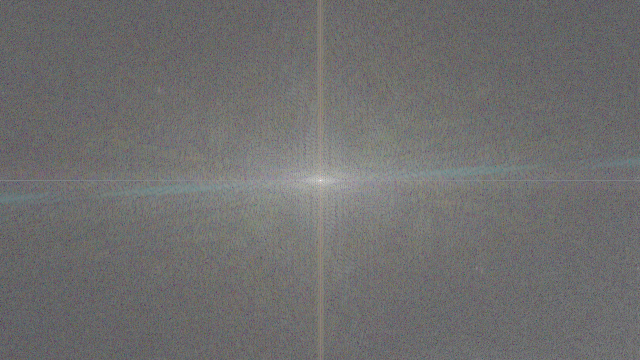
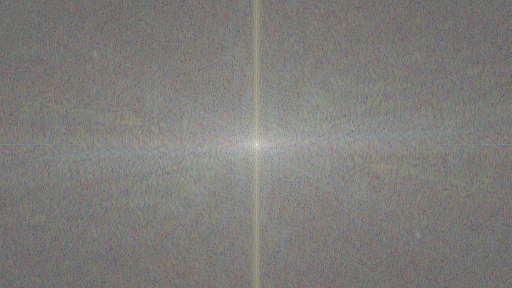
attempt 2

Changed region(s): [[0.0, 0.0, 1.0, 1.0], [0.9688, 0.6562, 1.0, 0.6875], [0.9375, 0.6875, 0.9688, 0.7188]]

diff --git a/src/processors/FourierProcessor.java b/src/processors/FourierProcessor.java
@@ -44,6 +44,16 @@ public class FourierProcessor {
                         .divide(factor);
                 sourceFFTB[i + width / 4 - width / scale / 2][j + height / 4 - height / scale / 2] = fftBScaled[i][j]
                         .divide(factor);
+
+                sourceFFTR[i + 3 * width / 4 - width / scale / 2][j + 3 * height / 4
+                        - height / scale / 2] = fftRScaled[i][j]
+                                .divide(factor).conjugate();
+                sourceFFTG[i + 3 * width / 4 - width / scale / 2][j + 3 * height / 4
+                        - height / scale / 2] = fftGScaled[i][j]
+                                .divide(factor).conjugate();
+                sourceFFTB[i + 3 * width / 4 - width / scale / 2][j + 3 * height / 4
+                        - height / scale / 2] = fftBScaled[i][j]
+                                .divide(factor).conjugate();
             }
         }
 
@@ -90,35 +100,9 @@ public class FourierProcessor {
                 Image.fftToImage(fftBScaled));
         FileReader.writeImage(Image.toBufferedImage(debug1), ImageType.Debug, "hiddenFFT.png");
 
-        // 5) Create full-size frequency arrays to hold the upsampled data.
-        // Initially set them all to zero. We'll put our scaled frequencies into their
-        // positions
-        // at multiples of 'scale'. Everything else remains zero.
-        Complex[][] recoveredFFTR = new Complex[width][height];
-        Complex[][] recoveredFFTG = new Complex[width][height];
-        Complex[][] recoveredFFTB = new Complex[width][height];
-
-        for (int i = 0; i < width; i++) {
-            for (int j = 0; j < height; j++) {
-                recoveredFFTR[i][j] = new Complex(0, 0);
-                recoveredFFTG[i][j] = new Complex(0, 0);
-                recoveredFFTB[i][j] = new Complex(0, 0);
-            }
-        }
-
-        // 6) Fill in the frequency coefficients at every 'scale'-th index.
-        for (int i = 0; i < width; i += scale) {
-            for (int j = 0; j < height; j += scale) {
-                recoveredFFTR[i][j] = fftRScaled[i / scale][j / scale];
-                recoveredFFTG[i][j] = fftGScaled[i / scale][j / scale];
-                recoveredFFTB[i][j] = fftBScaled[i / scale][j / scale];
-            }
-        }
-
-        // 7) Inverse FFT to get back the hidden image.
-        Image redNew = Image.complexToImage(applyIFFT(recoveredFFTR));
-        Image greenNew = Image.complexToImage(applyIFFT(recoveredFFTG));
-        Image blueNew = Image.complexToImage(applyIFFT(recoveredFFTB));
+        Image redNew = Image.complexToImage(applyIFFT(fftRScaled));
+        Image greenNew = Image.complexToImage(applyIFFT(fftGScaled));
+        Image blueNew = Image.complexToImage(applyIFFT(fftBScaled));
 
         return new Image(redNew, greenNew, blueNew);
     }

diff --git a/src/Main.java b/src/Main.java
@@ -6,11 +6,11 @@ import processors.FourierProcessor;
 public class Main {
     public static void main(String[] args) {
         Image encoded = FourierProcessor.encode(FileReader.readImage(ImageType.Store, "store.png"),
-                FileReader.readImage(ImageType.Encode, "encode.png"), 4, 2);
+                FileReader.readImage(ImageType.Encode, "encode.png"), 5, 4);
 
         FileReader.writeImage(Image.toBufferedImage(encoded), ImageType.Output, "encoded.png");
 
-        Image decoded = FourierProcessor.decode(encoded, 4, 2);
+        Image decoded = FourierProcessor.decode(encoded, 5, 4);
 
         FileReader.writeImage(Image.toBufferedImage(decoded), ImageType.Output, "decoded.png");
     }

diff --git a/src/filereader/Image.java b/src/filereader/Image.java
@@ -91,7 +91,7 @@ public class Image {
         int[][] newI = new int[image.length][image[0].length];
         for (int x = 0; x < image.length; x++) {
             for (int y = 0; y < image[0].length; y++) {
-                int c = (int) Math.round(Math.max(0, Math.min(255, image[x][y].real)));
+                int c = (int) Math.round(Math.max(0, Math.min(255, image[x][y].magnitude())));
                 newI[x][y] = c;
             }
         }

diff --git a/src/processors/Complex.java b/src/processors/Complex.java
@@ -20,4 +20,8 @@ public class Complex {
     public Complex times(double x) {
         return new Complex(real * x, imag * x);
     }
+
+    public Complex conjugate() {
+        return new Complex(real, -imag);
+    }
 }
